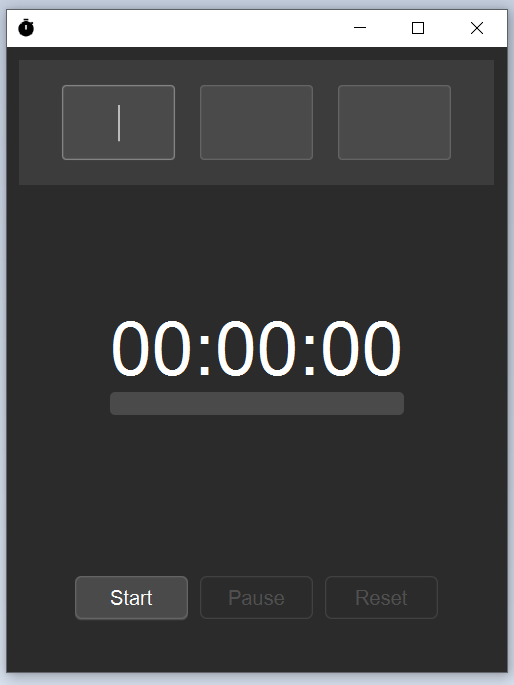
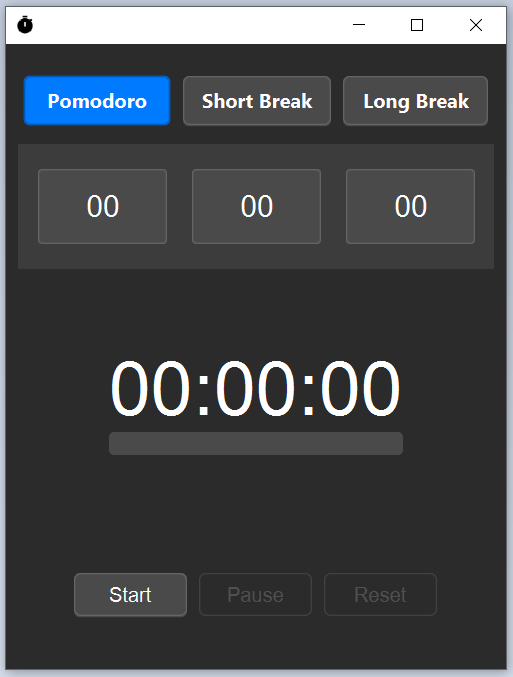
Updates: 1.1
Turning a regular timer into a Pomodoro timer. Now there are modes that help you set the timer quickly:
- Pomodoro (25 minutes)
- Short break (5 minutes)
- Long break (15 minutes)

Planned features:

- Customize the duration of each mode

diff --git a/src/main/resources/styles/home.css b/src/main/resources/styles/home.css
@@ -3,68 +3,74 @@
  */
 
 .main {
-    -fx-background-color: #2b2b2b;
+  -fx-background-color: #2b2b2b;
 }
 
 .wrapperInput {
-    -fx-background-color: #3c3c3c;
-    -fx-padding: 10px;
-    -fx-spacing: 10px;
+  -fx-background-color: #3c3c3c;
+  -fx-padding: 10px;
+  -fx-spacing: 10px;
 }
 
 .wrapperProgress {
-    -fx-background-color: #2b2b2b;
-    -fx-padding: 20px;
+  -fx-background-color: #2b2b2b;
+  -fx-padding: 20px;
 }
 
 .btnAction {
-    -fx-background-color: #4a4a4a;
-    -fx-text-fill: #ffffff;
-    -fx-border-color: #666666;
-    -fx-border-width: 1px;
-    -fx-border-radius: 5px;
-    -fx-background-radius: 5px;
+  -fx-background-color: #4a4a4a;
+  -fx-text-fill: #ffffff;
+  -fx-border-color: #666666;
+  -fx-border-width: 1px;
+  -fx-border-radius: 5px;
+  -fx-background-radius: 5px;
 }
 
 .btnAction:hover {
-    -fx-background-color: #5a5a5a;
+  -fx-background-color: #5a5a5a;
 }
 
 .btnAction:pressed {
-    -fx-background-color: #3a3a3a;
+  -fx-background-color: #3a3a3a;
 }
 
 .btnAction:disabled {
-    -fx-background-color: #2a2a2a;
-    -fx-text-fill: #888888;
+  -fx-background-color: #2a2a2a;
+  -fx-text-fill: #888888;
+}
+
+.btnActive {
+  -fx-background-color: #007bff;
+  -fx-text-fill: #ffffff;
+  -fx-border-color: #0056b3;
 }
 
 .text-field {
-    -fx-background-color: #4a4a4a;
-    -fx-text-fill: #ffffff;
-    -fx-border-color: #666666;
-    -fx-border-width: 1px;
-    -fx-border-radius: 3px;
-    -fx-background-radius: 3px;
+  -fx-background-color: #4a4a4a;
+  -fx-text-fill: #ffffff;
+  -fx-border-color: #666666;
+  -fx-border-width: 1px;
+  -fx-border-radius: 3px;
+  -fx-background-radius: 3px;
 }
 
 .text-field:focused {
-    -fx-border-color: #888888;
+  -fx-border-color: #888888;
 }
 
 .label {
-    -fx-text-fill: #ffffff;
+  -fx-text-fill: #ffffff;
 }
 
 .progress-bar {
-    -fx-accent: #00ff00;
-    -fx-control-inner-background: #4a4a4a;
+  -fx-accent: #00ff00;
+  -fx-control-inner-background: #4a4a4a;
 }
 
 .progress-bar .track {
-    -fx-background-color: #4a4a4a;
+  -fx-background-color: #4a4a4a;
 }
 
 .progress-bar .bar {
-    -fx-background-color: #00ff00;
+  -fx-background-color: #00ff00;
 }

diff --git a/src/main/java/com/dpzstudio/timer/controller/HomeController.java b/src/main/java/com/dpzstudio/timer/controller/HomeController.java
@@ -2,6 +2,7 @@ package com.dpzstudio.timer.controller;
 
 import java.net.URL;
 import java.util.ResourceBundle;
+import java.util.Optional;
 import javafx.animation.Animation;
 import javafx.animation.KeyFrame;
 import javafx.animation.Timeline;
@@ -9,12 +10,17 @@ import javafx.fxml.FXML;
 import javafx.fxml.Initializable;
 import javafx.scene.control.Alert;
 import javafx.scene.control.Button;
+import javafx.scene.control.ButtonType;
 import javafx.scene.control.Label;
 import javafx.scene.control.ProgressBar;
 import javafx.scene.control.TextField;
 import javafx.scene.control.TextFormatter;
 import javafx.scene.media.AudioClip;
 import javafx.util.Duration;
+import com.dpzstudio.timer.config.PomodoroMode;
+import com.dpzstudio.timer.config.Pomodoro;
+import com.dpzstudio.timer.config.ShortBreak;
+import com.dpzstudio.timer.config.LongBreak;
 
 public class HomeController implements Initializable {
 
@@ -28,13 +34,22 @@ public class HomeController implements Initializable {
     private Button btnStart, btnPause, btnReset;
 
     @FXML
+    private Button btnPomodorMode, btnShortBreakMode, btnLongBreakMode;
+
+    @FXML
     private ProgressBar progressBar;
 
     private Timeline timer;
-    private int totalSeconds;
-    private int remainingSeconds;
+    private int totalSeconds, remainingSeconds;
 
     private AudioClip alarmSound;
+
+    private PomodoroMode currentMode;
+    private final Pomodoro pomodoro = new Pomodoro();
+    private final ShortBreak shortBreak = new ShortBreak();
+    private final LongBreak longBreak = new LongBreak();
+
+    private Button activeModeButton;
 
     @Override
     public void initialize(URL url, ResourceBundle rb) {
@@ -45,9 +60,18 @@ public class HomeController implements Initializable {
 
         initResources();
 
+        currentMode = pomodoro;
+        activeModeButton = btnPomodorMode;
+        updateActiveModeButton();
+        setModeInputs();
+
         btnStart.setOnAction(e -> startTimer());
         btnPause.setOnAction(e -> pauseTimer());
         btnReset.setOnAction(e -> resetTimer());
+
+        btnPomodorMode.setOnAction(e -> switchMode(pomodoro));
+        btnShortBreakMode.setOnAction(e -> switchMode(shortBreak));
+        btnLongBreakMode.setOnAction(e -> switchMode(longBreak));
 
         resetTimer();
     }
@@ -64,13 +88,11 @@ public class HomeController implements Initializable {
 
     private void startTimer() {
         if (!validateInput()) {
-            showWarning("Masukkan waktu minimal 1 detik dan hanya angka saja.");
+            showWarning("Duration Incorrect!");
             return;
         }
 
-        if (timer != null && timer.getStatus() == Animation.Status.RUNNING) {
-            return;
-        }
+        if (timer != null && timer.getStatus() == Animation.Status.RUNNING) return;
 
         if (timer == null) {
             timer = new Timeline(new KeyFrame(Duration.seconds(1), event -> {
@@ -108,9 +130,9 @@ public class HomeController implements Initializable {
 
         totalSeconds = 0;
         remainingSeconds = 0;
-        inputSecond.clear();
-        inputMinute.clear();
-        inputHour.clear();
+        inputSecond.setText("00");;
+        inputMinute.setText("00");;
+        inputHour.setText("00");;
         labelSecond.setText("00");
         labelMinute.setText("00");
         labelHour.setText("00");
@@ -129,9 +151,7 @@ public class HomeController implements Initializable {
     }
 
     private int parseOrZero(String text) {
-        if (text == null || text.isBlank()) {
-            return 0;
-        }
+        if (text == null || text.isBlank()) return 0;
         return Integer.parseInt(text);
     }
 
@@ -177,5 +197,64 @@ public class HomeController implements Initializable {
         alert.setHeaderText(null);
         alert.setContentText(message);
         alert.showAndWait();
+    }
+
+    private void switchMode(PomodoroMode mode) {
+        boolean isRunning = timer != null && timer.getStatus() == Animation.Status.RUNNING;
+
+        if (isRunning) {
+            Alert alert = new Alert(Alert.AlertType.CONFIRMATION);
+            alert.setTitle("Switch Mode");
+            alert.setHeaderText("Timer is currently running.");
+            alert.setContentText("Switching mode will reset the timer. Do you want to continue?");
+
+            Optional<ButtonType> result = alert.showAndWait();
+            if (result.isEmpty() || result.get() != ButtonType.OK) {
+                return;
+            }
+        }
+
+        Button newActiveButton;
+        if (mode instanceof Pomodoro) {
+            newActiveButton = btnPomodorMode;
+        } else if (mode instanceof ShortBreak) {
+            newActiveButton = btnShortBreakMode;
+        } else if (mode instanceof LongBreak) {
+            newActiveButton = btnLongBreakMode;
+        } else {
+            return;
+        }
+
+        currentMode = mode;
+        activeModeButton = newActiveButton;
+
+        if (timer != null) {
+            timer.stop();
+        }
+
+        totalSeconds = 0;
+        remainingSeconds = 0;
+        labelSecond.setText("00");
+        labelMinute.setText("00");
+        labelHour.setText("00");
+        progressBar.setProgress(0);
+        setButtonState(true, false, false);
+
+        setModeInputs();
+        updateActiveModeButton();
+    }
+
+    private void setModeInputs() {
+        inputHour.setText(String.valueOf(currentMode.getDefaultHours()));
+        inputMinute.setText(String.valueOf(currentMode.getDefaultMinutes()));
+        inputSecond.setText(String.valueOf(currentMode.getDefaultSeconds()));
+    }
+
+    private void updateActiveModeButton() {
+        btnPomodorMode.getStyleClass().remove("btnActive");
+        btnShortBreakMode.getStyleClass().remove("btnActive");
+        btnLongBreakMode.getStyleClass().remove("btnActive");
+
+        activeModeButton.getStyleClass().add("btnActive");
     }
 }

diff --git a/src/main/java/com/dpzstudio/timer/config/PomodoroMode.java b/src/main/java/com/dpzstudio/timer/config/PomodoroMode.java
@@ -1,0 +1,31 @@
+package com.dpzstudio.timer.config;
+
+/**
+ * Interface for Pomodoro timer modes.
+ */
+public interface PomodoroMode {
+
+    /**
+     * Gets the default hours for this mode.
+     * @return default hours
+     */
+    int getDefaultHours();
+
+    /**
+     * Gets the default minutes for this mode.
+     * @return default minutes
+     */
+    int getDefaultMinutes();
+
+    /**
+     * Gets the default seconds for this mode.
+     * @return default seconds
+     */
+    int getDefaultSeconds();
+
+    /**
+     * Gets the name of this mode.
+     * @return mode name
+     */
+    String getModeName();
+}

diff --git a/src/main/java/com/dpzstudio/timer/config/Pomodoro.java b/src/main/java/com/dpzstudio/timer/config/Pomodoro.java
@@ -1,0 +1,19 @@
+package com.dpzstudio.timer.config;
+
+/**
+ * Pomodoro mode: 25 minutes work session.
+ */
+public class Pomodoro implements PomodoroMode {
+
+    @Override
+    public int getDefaultHours() { return 0; }
+
+    @Override
+    public int getDefaultMinutes() { return 25; }
+
+    @Override
+    public int getDefaultSeconds() { return 0; }
+
+    @Override
+    public String getModeName() { return "Pomodoro"; }
+}

diff --git a/src/main/java/com/dpzstudio/timer/config/ShortBreak.java b/src/main/java/com/dpzstudio/timer/config/ShortBreak.java
@@ -1,0 +1,19 @@
+package com.dpzstudio.timer.config;
+
+/**
+ * Short Break mode: 5 minutes break.
+ */
+public class ShortBreak implements PomodoroMode {
+
+    @Override
+    public int getDefaultHours() { return 0; }
+
+    @Override
+    public int getDefaultMinutes() { return 5; }
+
+    @Override
+    public int getDefaultSeconds() { return 0; }
+
+    @Override
+    public String getModeName() { return "Short Break"; }
+}

diff --git a/src/main/java/com/dpzstudio/timer/config/LongBreak.java b/src/main/java/com/dpzstudio/timer/config/LongBreak.java
@@ -1,0 +1,19 @@
+package com.dpzstudio.timer.config;
+
+/**
+ * Long Break mode: 15 minutes break.
+ */
+public class LongBreak implements PomodoroMode {
+
+    @Override
+    public int getDefaultHours() { return 0; }
+
+    @Override
+    public int getDefaultMinutes() { return 15; }
+
+    @Override
+    public int getDefaultSeconds() { return 0; }
+
+    @Override
+    public String getModeName() { return "Long Break"; }
+}
